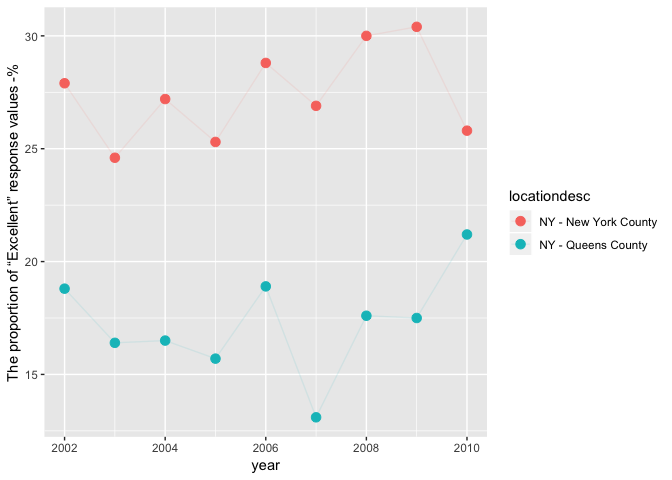
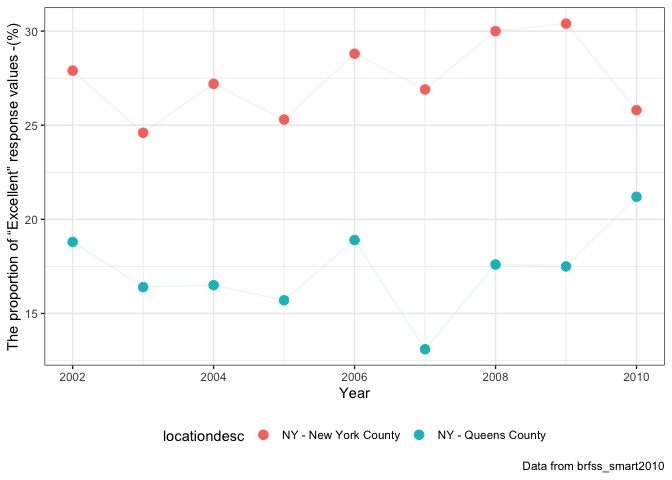
change plot

diff --git a/p8105_hw2_jl5297.md b/p8105_hw2_jl5297.md
@@ -51,7 +51,7 @@ nyc
     ## #   route9 <int>, route10 <int>, route11 <int>, entrance_type <chr>,
     ## #   entry <lgl>, vending <chr>, ada <lgl>
 
-The "nyc\_transit" dataset extracted data from "NYC\_Transit\_Subway\_Entrance\_And\_Exit\_Data.csv" document. This dataset has 1868 rows and 19 columns. There are 1868 observations in this dataset. The nyc\_transit dataset contains variables including line, station, name, station latitude / longitude, routes served(route number and route name), entry, vending, entrance type, and ADA compliance.
+The "nyc\_transit" dataset extracted data from "NYC\_Transit\_Subway\_Entrance\_And\_Exit\_Data.csv" document. This dataset has 1868 rows and 19 columns. There are 1868 observations in this dataset. The nyc\_transit dataset contains variables including line, station, name, station latitude / longitude, routes served, entry, vending, entrance type, and ADA compliance.
 
 I load the data, clean the varibales name, select needed variables and convert the entry variable from character (YES vs NO) to a logical variable. These data are not tidy, because there are variables value in columns' names. And I think it should add a column to tell which entrance it is because it is quite confusing now.
 
@@ -81,13 +81,13 @@ There are 84 stations which are ADA compliant.
 **c. Calculate proportion of station entrances / exits without vending allow entrance**
 
 ``` r
-entran_num = nrow(nyc)
-nyc %>% filter(vending == "NO") %>% nrow() / entran_num
+entran_withoutvending = nyc %>% filter(vending == "NO")
+mean(entran_withoutvending$entry)
 ```
 
-    ## [1] 0.09796574
+    ## [1] 0.3770492
 
-The proportion of station entrances / exits without vending allow entrance is about 0.098.
+The proportion of station entrances / exits without vending allow entrance is about 0.377.
 
 ### 3. Reform data
 
@@ -151,7 +151,7 @@ Problem 2
 
 ``` r
 trash = read_excel("./data/HealthyHarborWaterWheelTotals2017-9-26.xlsx",
-                   sheet = 1, range = "A2:N258") %>% 
+                   sheet = 1, range = cell_cols("A:N")) %>% 
     janitor::clean_names() %>% 
     rename(weight = weight_tons, volume = volume_cubic_yards) %>% 
     filter(!is.na(dumpster)) %>% 
@@ -216,7 +216,7 @@ head(precip)
 
 ### 2. Describe the data
 
-The "trash"" dataset extracted data from sheet 1 of "HealthyHarborWaterWheelTotals2017-9-26.xlsx". It has 215 rows and 14 columns. There are 215 observations in this dataset. And there are 14 variables in this dataset, including dumpster number, month, year, date, weight, volume, the number of a specific trash it collected and so on. For example, from the dataset we can know that on 2014-05-16 the dumpster 1 collected 1450 plastic bottles.
+The "trash"" dataset extracted data from sheet 1 of "HealthyHarborWaterWheelTotals2017-9-26.xlsx". It has 216 rows and 14 columns. There are 216 observations in this dataset(I include the 362th row as it has a dumpster number). And there are 14 variables in this dataset, including dumpster number, month, year, date, weight, volume, the number of a specific trash it collected and so on. For example, from the dataset we can know that on 2014-05-16 the dumpster 1 collected 1450 plastic bottles.
 
 The "precip" dataset merged data from sheet 3 and sheet 4 of document "HealthyHarborWaterWheelTotals2017-9-26.xlsx". It has 20 rows and 3 columns. There are 20 observations and 3 variables including year, month and total precipitation in this dataset. For example, from the dataset we can know that on in January 2016 it collected 3.23 total precipitation.
 
@@ -225,22 +225,17 @@ The "precip" dataset merged data from sheet 3 and sheet 4 of document "HealthyHa
 **a. Total precipitation in 2017**
 
 ``` r
-precip_sum = precip %>% group_by(year) %>% summarise(sum(precipitation))
-precip_sum
+sum(precip_2017$precipitation)
 ```
 
-    ## # A tibble: 2 x 2
-    ##   year  `sum(precipitation)`
-    ##   <chr>                <dbl>
-    ## 1 2016                  40.0
-    ## 2 2017                  29.9
+    ## [1] 29.93
 
-Total precipitation in 2017 is 29.9.
+Total precipitation in 2017 is 29.93.
 
 **b. The median number of sports balls in a dumpster in 2016**
 
 ``` r
-trash %>% filter(year == 2016) %>% summarise(median(sports_balls))
+trash %>% filter(year == "2016") %>% summarise(median(sports_balls))
 ```
 
     ## # A tibble: 1 x 1
@@ -254,6 +249,8 @@ Problem 3
 ---------
 
 ### 1. Load the data
+
+Need to install package p8105.datasets firstly on your computer.
 
 ``` r
 library(p8105.datasets)
@@ -343,13 +340,20 @@ The median of the “Excellent” response value is 23.6.
 ``` r
 brfss_tidy %>% 
     filter(year == 2002) %>% 
-    ggplot(aes(x = excellent)) + geom_histogram() 
+    ggplot(aes(x = excellent)) + 
+    geom_histogram() +
+    labs(
+    title = "Histogram of “Excellent” response values in the year 2002",
+    x = '"Excellent" response values',
+    y = "Count",
+    caption = "Data from brfss_smart2010") +
+    theme_bw() 
 ```
 
 ![](p8105_hw2_jl5297_files/figure-markdown_github/unnamed-chunk-19-1.png)
 
 ``` r
-ggsave("histogra.jpg")
+ggsave("histogram.jpg")
 ```
 
 **d. Make a scatterplot showing the proportion of “Excellent” response values in New York County and Queens County (both in NY State) in each year from 2002 to 2010.**
@@ -358,11 +362,20 @@ ggsave("histogra.jpg")
 brfss_tidy %>% 
     filter(locationdesc %in% c("NY - New York County", "NY - Queens County")) %>% 
     ggplot(aes(x = year, y = excellent, color = locationdesc)) +
-    geom_point(size = 3) + geom_line(alpha = 0.1) +
-    ylab("The proportion of “Excellent” response values -%") +
+    geom_point(size = 3) + 
+    geom_line(alpha = 0.1) +
+    labs(
+    x = "Year",
+    y = "The proportion of “Excellent” response values -(%)",
+    caption = "Data from brfss_smart2010") +
+    theme_bw() +
+    theme(legend.position = "bottom")
+```
+
+![](p8105_hw2_jl5297_files/figure-markdown_github/unnamed-chunk-20-1.png)
+
+``` r
 ggsave("scatterplot.jpg")
 ```
 
     ## Saving 7 x 5 in image
-
-![](p8105_hw2_jl5297_files/figure-markdown_github/unnamed-chunk-20-1.png)
